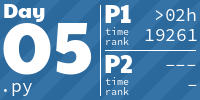
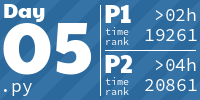
2024 - Day 5, part 2
Running the sort multiple times solved the problem ... :grimacing:

Changed region(s): [[0.72, 0.78, 0.99, 0.93], [0.78, 0.57, 0.99, 0.72]]

diff --git a/ibidem/advent_of_code/y2024/dec05.py b/ibidem/advent_of_code/y2024/dec05.py
@@ -115,8 +115,9 @@ def part2(input, invalid_updates):
     original_rules, _ = input
     middle_numbers = []
     for update in invalid_updates:
-        rules = [copy.deepcopy(rule) for rule in original_rules]
-        update = sort_update(update, rules)
+        for i in range(5):
+            rules = [copy.deepcopy(rule) for rule in original_rules]
+            update = sort_update(update, rules)
         middle_numbers.append(update.middle_page)
     return sum(middle_numbers)
 
